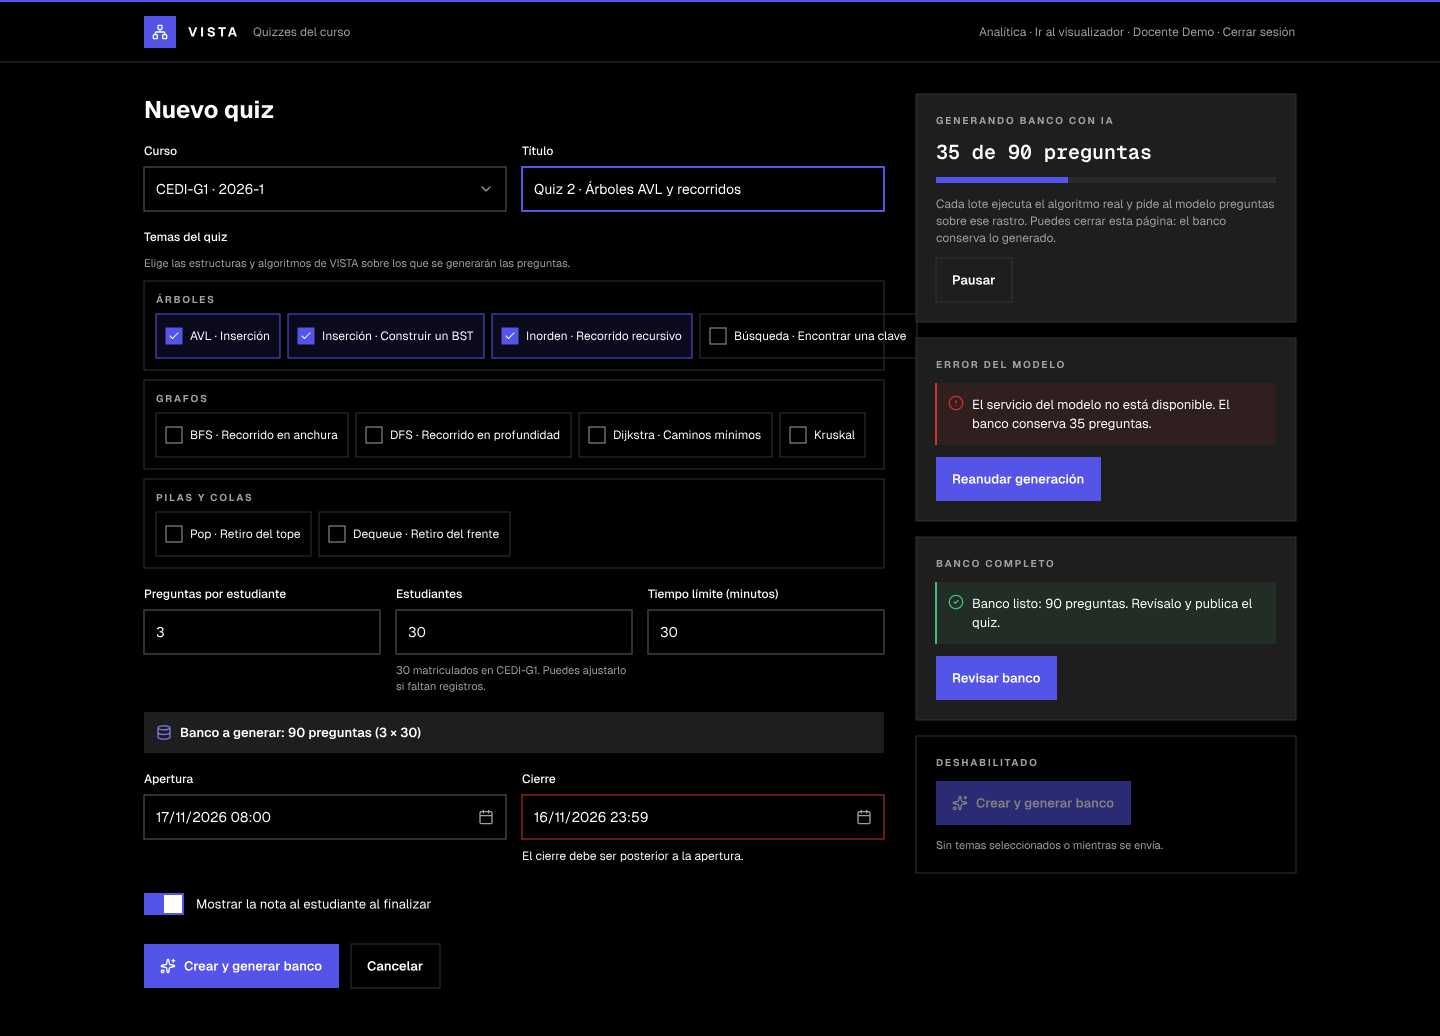
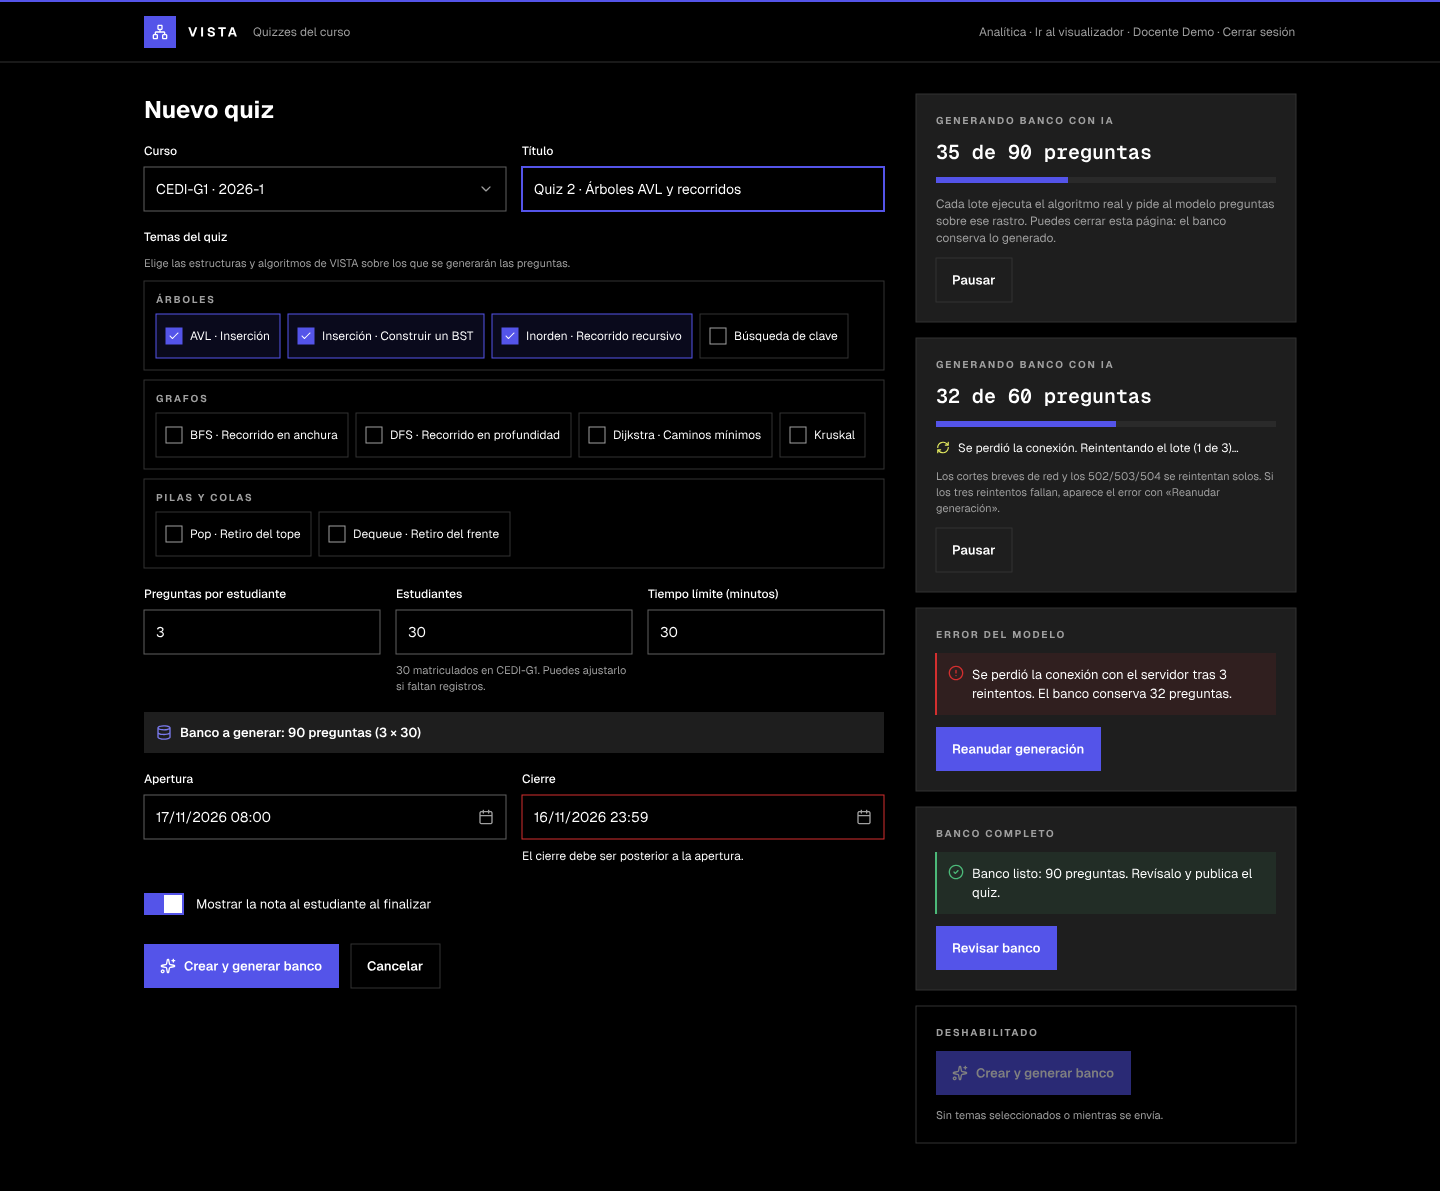
docs(HU-34): registra corte de red al generar el banco y conteo concurrente de incidentes

diff --git a/hus/HU-34-quizzes-interactivos.md b/hus/HU-34-quizzes-interactivos.md
@@ -214,6 +214,37 @@ limpia) se conserva; se actualizó la petición que la prueba espera.
   detienen la generación y se reanuda a mano.
 - Un quiz publicado no se puede editar ni eliminar si ya tiene intentos.
 
+## Incidencia posterior a la publicación (17 nov 2026)
+
+**Síntoma:** en producción, al generar el banco de un quiz de 3 preguntas × 20 estudiantes (60), la
+generación se detuvo con «No se pudo generar el lote. El banco conserva lo generado.».
+
+**Causa, según los registros de Cloud Run:** el servidor no falló. Los 16 lotes que llegaron
+respondieron 200 en ~4,5–5 s cada uno. Tras el octavo lote (32 de 60) el siguiente nunca llegó al
+servidor, y la IP pública del cliente cambió de `186.81.x` a `181.63.x` antes de que se reanudara: un
+corte o cambio de red mató la petición en curso. El cliente lo trataba como un error genérico y
+detenía todo el banco por un solo fallo. Al reanudar, el banco se completó (60/60).
+
+**Corrección:**
+- `useBankGeneration` reintenta solo los fallos transitorios (sin respuesta, 429, 502, 503, 504) con
+  esperas de 2, 5 y 10 s; muestra «Reintentando el lote (n de 3)» y, si persiste, la causa concreta.
+  401, 403, 404 y 409 no se reintentan y explican qué pasó (`generationFailure` en `lib/quiz.ts`).
+- Diseño: estado «Reconectando» añadido al frame `BWwJl` de pen.
+- Pruebas: Vitest de la clasificación de fallos; Cypress `ca11` con un corte pasajero que se
+  recupera solo y uno persistente que muestra la causa y se reanuda a mano, controlado con un
+  interruptor porque Chrome y Firefox reenvían en silencio un número distinto de veces un POST cortado.
+
+**Defecto encontrado al validar la corrección:** el contador de incidentes del modo de prueba
+perdía eventos simultáneos (lectura-modificación-escritura en dos transacciones). Con el código
+anterior, 12 incidentes paralelos quedaban en 3. Ahora se incrementa con un `UPDATE` atómico y el
+cliente no deja que una respuesta atrasada baje el contador. Prueba nueva:
+`QuizAttemptTest.simultaneousIncidentsAreAllCounted`. Era la causa del fallo intermitente de `ca6` en
+Firefox.
+
+**Verificación:** `make check-format` y `./mvnw verify` (406 pruebas, 0 fallos, JaCoCo cumple);
+`npm run lint`, `npm run build`, `npm run test:coverage` (119 pruebas); Cypress HU-34 + HU-16 · CA-3
+sin reintentos: Chrome 20/20, Firefox 20/20; `ca6` repetido 4 veces en Firefox; Playwright + axe 24/24.
+
 ## Hallazgos fuera de alcance
 
 - `main` de backend, frontend y dev-workflow va por detrás de ramas locales con PR abiertos; el PR
